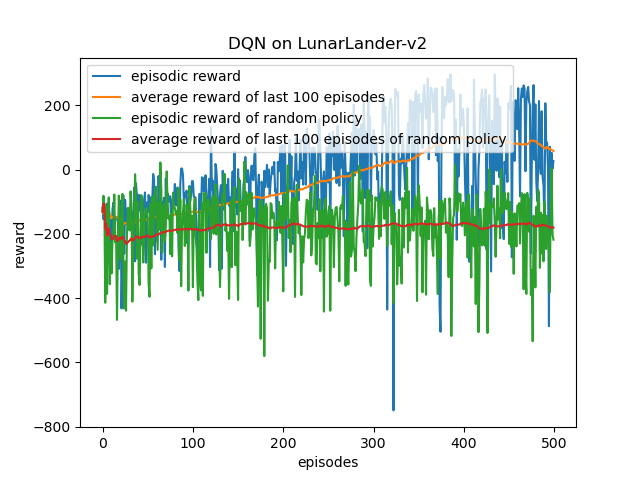
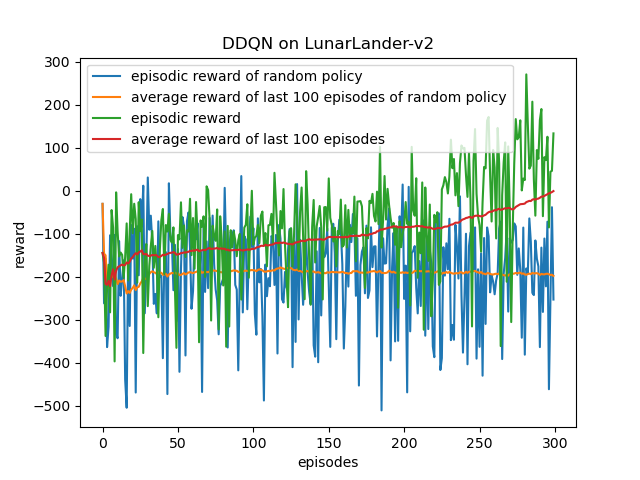
DDQN and argparse

diff --git a/agent.py b/agent.py
@@ -5,16 +5,18 @@ import collections
 import torch.nn.functional as F
 import numpy as np
 
+# the child need to implement their own step and learn
 class Agent():
     def __init__(self, action_dim, obs_dim, eps=1, gamma=0.99, decay=0.995, eps_low = 0.05, batch_size=128, tau=0.75, train_mode=True):
-        self.local_network = DQN(action_dim, obs_dim)
+        self.policy_newtork = DQN(action_dim, obs_dim)
         self.target_network = DQN(action_dim, obs_dim)
-        self.target_network.load_state_dict(self.local_network.state_dict())
+        self.target_network.load_state_dict(self.policy_newtork.state_dict())
         self.target_network.eval()
         self.losses = []
 
         self.tau = tau
 
+        self.train_mode = train_mode
         self.eps = eps if train_mode else 0
 
         self.gamma = gamma
@@ -26,28 +28,42 @@ class Agent():
 
 
         self.loss_fn = nn.MSELoss()
-        self.optim = torch.optim.Adam(self.local_network.parameters(), lr=1e-3)
-
-
-    def step(self, obs):
-        with torch.no_grad():
-            action_scores = self.local_network.forward(torch.from_numpy(obs))
-            return random.choice(range(self.action_dim)) if np.random.uniform() < self.eps else torch.argmax(action_scores).item()
-
+        self.optim = torch.optim.Adam(self.policy_newtork.parameters(), lr=1e-3)
 
     def eps_decay(self):
         self.eps *= self.decay
         self.eps = max(self.eps, self.eps_low)
 
+    def soft_update(self):
+        for target_param, local_param in zip(self.target_network.parameters(), self.policy_newtork.parameters()):
+            target_param.data.copy_(self.tau * local_param.data + (1.0 - self.tau ) * target_param.data)
+     
+    def hard_update(self):
+        self.target_network.load_state_dict(self.policy_newtork.state_dict())
+
+
+class DQNAgent(Agent):
+    def __init__(self, action_dim, obs_dim, eps=1, gamma=0.99, decay=0.995, eps_low = 0.05, batch_size=128, tau=0.75, train_mode=True):
+        super().__init__(action_dim, obs_dim, eps, gamma, decay, eps_low, batch_size, tau, train_mode)
+
+    def step(self, obs):
+        with torch.no_grad():
+            action_scores = self.policy_newtork.forward(torch.from_numpy(obs))
+
+            if not self.train_mode:
+                return torch.argmax(action_scores).item()
+            else:
+                return random.choice(range(self.action_dim)) if np.random.uniform() < self.eps else torch.argmax(action_scores).item()
+
     def train(self, replay_buffer):
-        self.local_network.train()
+        self.policy_newtork.train()
         mini_batch = replay_buffer.sample_batch(self.batch_size)
 
         if mini_batch is None:
             return
 
         obs, actions, rewards, new_obs, terminals = mini_batch
-        Q_local = self.local_network(obs).gather(1, actions.reshape(-1, 1))
+        Q_local = self.policy_newtork(obs).gather(1, actions.reshape(-1, 1))
 
         Q_target = torch.max(self.target_network(new_obs), dim=1)[0]
         y = rewards + self.gamma * Q_target * (1 - terminals)
@@ -58,13 +74,46 @@ class Agent():
         loss.backward()
         self.optim.step()
 
-    def soft_update(self):
-        for target_param, local_param in zip(self.target_network.parameters(), self.local_network.parameters()):
-            target_param.data.copy_(self.tau * local_param.data + (1.0 - self.tau ) * target_param.data)
-     
-    def hard_update(self):
-        self.target_network.load_state_dict(self.local_network.state_dict())
 
+class DDQNAgent(Agent):
+    def __init__(self, action_dim, obs_dim, eps=1, gamma=0.99, decay=0.995, eps_low=0.05, batch_size=128, tau=0.75, train_mode=True):
+        super().__init__(action_dim, obs_dim, eps, gamma, decay, eps_low, batch_size, tau, train_mode)
+
+    def step(self, obs):
+        with torch.no_grad():
+            action_scores = self.policy_newtork.forward(torch.from_numpy(obs))
+            if not self.train_mode:
+                return torch.argmax(action_scores).item()
+            else:
+                return random.choice(range(self.action_dim)) if np.random.uniform() < self.eps else torch.argmax(action_scores).item()
+    
+    def train(self, replay_buffer):
+        self.policy_newtork.train()
+        mini_batch = replay_buffer.sample_batch(self.batch_size)
+
+        if mini_batch is None:
+            return
+
+        obs, actions, rewards, new_obs, terminals = mini_batch
+        Q_local = self.policy_newtork(obs).gather(1, actions.reshape(-1, 1))
+
+
+        # actions pick by the policy network
+        policy_actions = torch.max(self.policy_newtork(new_obs), dim=1)[1]
+
+        # the picked actions is evaluated by the target network
+        Q_target = self.target_network(new_obs).gather(1, policy_actions.reshape(-1, 1)).squeeze()
+
+        y = rewards + self.gamma * Q_target * (1 - terminals)
+
+        
+
+        loss = self.loss_fn(Q_local.reshape(-1), y.reshape(-1))
+
+        self.optim.zero_grad()
+        loss.backward()
+        self.optim.step()
+    
 
 
 class DQN(nn.Module):
@@ -109,3 +158,10 @@ class ReplayBuffer:
 
     def __len__(self):
         return len(self.buffer)
+
+
+def get_agent(algo, action_dim, obs_dim):
+    if algo == 'DDQN':
+        return DDQNAgent(action_dim, obs_dim)
+    if algo == 'DQN':
+        return DQNAgent(action_dim, obs_dim)

diff --git a/main.py b/main.py
@@ -4,8 +4,9 @@ import matplotlib.pyplot as plt
 import collections
 from statistics import mean
 import random
+import argparse
 
-env_name = 'CartPole-v1'
+env_name = 'LunarLander-v2'
 
 def critic(agent, redo):
     env = gym.make(env_name)
@@ -43,15 +44,15 @@ def random_policy(env, episode):
     return  total_rewards, avg_rewards
 
 
-def main():
+def main(algo):
 
     # init env and agent
     env = gym.make(env_name)
-    agent = Agent(action_dim=env.action_space.n, obs_dim=env.observation_space.shape[0])
+    agent = get_agent(algo, action_dim=env.action_space.n, obs_dim=env.observation_space.shape[0])
     redo = 10
 
     # training parameters
-    episode = 400
+    episode = 500
     update_step = 20
     step = 0
 
@@ -109,13 +110,13 @@ def main():
 
         # In the case of the cartpole game, since the upper bound of total_reward is 500, it will save the last agent's network which enables the agent to reach the reward of 500.
         if total_reward >= best_episode:
-            redo_agent = Agent(action_dim=env.action_space.n, obs_dim=env.observation_space.shape[0], train_mode=False)
-            redo_agent.local_network.load_state_dict(agent.local_network.state_dict())
+            redo_agent = DDQNAgent(action_dim=env.action_space.n, obs_dim=env.observation_space.shape[0], train_mode=False)
+            redo_agent.policy_newtork.load_state_dict(agent.policy_newtork.state_dict())
             agent_score = critic(redo_agent, redo)
             if agent_score > candidate_score:
                 candidate_score = agent_score
                 best_episode = total_reward
-                torch.save(agent.local_network.state_dict(), f'{env_name}_weights.pth')
+                torch.save(agent.policy_newtork.state_dict(), f'{env_name}_weights.pth')
                 print('model saved')
             
     
@@ -129,9 +130,12 @@ def main():
     plt.xlabel("episodes")
     plt.ylabel("reward")
     plt.legend(loc="upper left")
-    plt.title(f'DQN on {env_name}')
+    plt.title(f'{algo} on {env_name}')
     plt.savefig(f'Result_{env_name}')
 
 
 if __name__ == '__main__':
-    main()
+    parser = argparse.ArgumentParser()
+    parser.add_argument('-a', '--algo', default='DQN')
+    args = parser.parse_args()
+    main(args.algo)

diff --git a/recorder.py b/recorder.py
@@ -1,16 +1,18 @@
 import gym
 from agent import *
-
-env_name = "LunarLander-v2"
-file_path = f'videos/{env_name}'
+import argparse
 
 
-def main():
+# unfortunately gym doesn't support Monitor wrapper anymore, you can downgrade gym version to run this file
+def main(algo, env_name):
+    file_path = f'videos/{env_name}'
     env = gym.wrappers.Monitor(gym.make(env_name), file_path, force=True)
     obs = env.reset()
-    agent = Agent(env.action_space.n, env.observation_space.shape[0], train_mode=False)
-    agent.local_network.load_state_dict(torch.load(f'{env_name}_weights.pth'))
-    agent.local_network.eval()
+    agent = get_agent(algo, env.action_space.n, env.observation_space.shape[0])
+    agent.train_mode = False
+
+    agent.policy_newtork.load_state_dict(torch.load(f'{env_name}_weights.pth'))
+    agent.policy_newtork.eval()
     while True:
         action = agent.step(obs)
         obs, reward, termination, truncated, _ = env.step(action)
@@ -20,4 +22,11 @@ def main():
 
 
 if __name__ == '__main__':
-    main()
+    parser = argparse.ArgumentParser()
+    parser.add_argument('-a', '--algo', default='DQN')
+    parser.add_argument('-e', '--env', default='CartPole-v1')
+    args = parser.parse_args()
+    algo = args.algo
+    env_name = args.env
+
+    main(algo, env_name)

diff --git a/display.py b/display.py
@@ -1,15 +1,18 @@
 import gym
 from agent import *
+import argparse
 
 env_name = 'CartPole-v1'
 
-def main():
+def main(algo, env_name):
     env = gym.make(env_name, render_mode='human')
 
     while True:
-        agent = Agent(env.action_space.n, env.observation_space.shape[0], train_mode=False)
-        agent.local_network.load_state_dict(torch.load(f'{env_name}_weights.pth'))
-        agent.local_network.eval()
+        agent = get_agent(algo, env.action_space.n, env.observation_space.shape[0])
+        agent.train_mode = False
+
+        agent.policy_newtork.load_state_dict(torch.load(f'{env_name}_weights.pth'))
+        agent.policy_newtork.eval()
         obs, _ = env.reset()
         total_reward = 0
         while True:
@@ -24,4 +27,11 @@ def main():
 
 
 if __name__ == '__main__':
-    main()
+    parser = argparse.ArgumentParser()
+    parser.add_argument('-a', '--algo', default='DQN')
+    parser.add_argument('-e', '--env', default='CartPole-v1')
+    args = parser.parse_args()
+    algo = args.algo
+    env_name = args.env
+
+    main(algo, env_name)

diff --git a/readme.md b/readme.md
@@ -31,7 +31,7 @@ According to the documentation, the maximum reward an agent get can get is +500 
 The random policy is the baseline.
 
 <p align="center">
-    <img src="Result_CartPole-v1.png" />
+    <img src="asset/Result_CartPole-v1.png" />
 </p>
 
 <p align="center">
@@ -51,7 +51,7 @@ Note: You might want to tune some of the hyperparameters(such as `tau`) in the `
 Down below is the result of `main.py` running in the `LunarLander-v2` environment by simply change the value of `env_name`.
 
 <p align="center">
-    <img src="Result_LunarLander-v2.png" />
+    <img src="asset/Result_LunarLander-v2.png" />
 </p>
 
 
